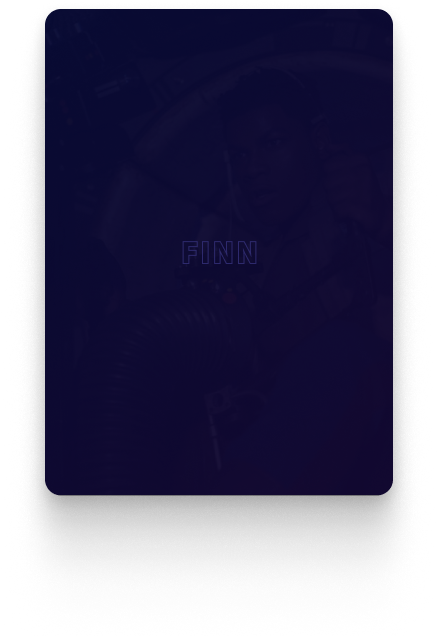
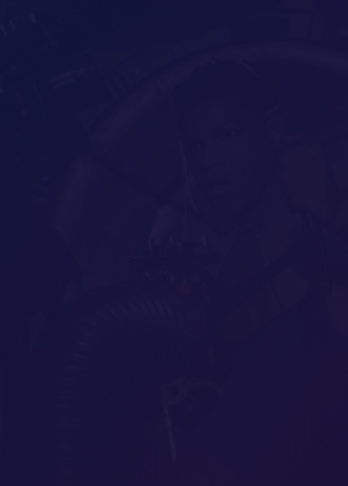
segunda versao

diff --git a/index.html b/index.html
@@ -1,0 +1,67 @@
+<!DOCTYPE html>
+<html lang="en">
+<head>
+    <meta charset="UTF-8">
+    <meta http-equiv="X-UA-Compatible" content="IE=edge">
+    <meta name="viewport" content="width=device-width, initial-scale=1.0">
+    <link rel="stylesheet" href="style.css">
+    <title>Card Skywalker</title>
+</head>
+<body>
+    <main class="container">
+        <div class="cards">
+            <div class="card-back">
+                <h1>FINN</h1>
+            </div>
+            <div class="card-front">
+                <div class="card-info">
+                <header> 
+                    <h2>Rey Skywalker</h2>
+                    <span>
+                        Era uma catadora de sucata 
+                        que descobriu ser sensível à Força durante sua busca ao lendário Mestre Jedi Luke 
+                        Skywalker.
+                    </span>
+                </header>
+                <div class="character">
+                    <img src="./assets/card-front/Character.svg" alt="imagem rey Skywalker">
+                </div>
+                <aside>
+                   
+                   
+                   <div class="infos">
+                        <span>Filmes</span>
+                        <h4>The Force Awakens, The Last Jedi, The Rise of Skywalker & Forces of Destiny</h4>
+                   </div>
+
+                   <div class="infos">
+                        <span>Espécie</span>
+                        <h4>Humana</h4>
+                   </div>
+
+                   <div class="infos">
+                         <span>Altura</span>
+                        <h4>1,7</h4>
+                   </div>
+
+                   <div class="infos">
+                        <span>Localidade</span>
+                         <h4>Jakku</h4>
+                        </div>
+
+                   <div class="infos">
+                      <span>Armas</span>
+                      <h4>Sabre de luz, Blaster, Quarterstaff</h4>
+                   </div>
+                </aside>
+            </div>
+            </div>
+            <div class="card-back">
+                <h1>BB-8 </h1>
+            </div>
+
+        </div>
+
+    </main>
+</body>
+</html>

diff --git a/style.css b/style.css
@@ -14,5 +14,65 @@
 }
  body{
     color: #fff;
+    background: linear-gradient(102.32deg, #030422 -2.74%, #090114 101.6%);
+    background-color: #111111;
     font-family: 'Source Sans Pro', sans-serif;
+    width: 100%;
+    height: 100vh;
+    display: flex;
+    justify-content: center;
+   align-items: center;
+   
+ }
+
+ .container {
+ }
+
+ .cards{
+    display: flex;
+    align-items: center;
+    gap: 32px;
+ }
+ 
+/*pseudo classe*/
+.card-back{
+    object-fit: cover;
+    width: 348px;
+    height: 486px;
+    box-shadow: 0px 113px 45px rgba(0, 0, 0, 0.02), 0px 64px 38px rgba(0, 0, 0, 0.08), 0px 28px 28px rgba(0, 0, 0, 0.13), 0px 7px 16px rgba(0, 0, 0, 0.15), 0px 0px 0px rgba(0, 0, 0, 0.15);
+   border-radius: 16px;
+
+   display: flex;
+   justify-content: center;
+   align-items: center;
+}
+
+
+ .card-back:first-child{
+    background-image: url("./assets/card-back/bg-card-left.png");
+    font-size: 32px;
+
+ }
+ .card-back:last-child{
+    background-image: url("./assets/card-back/bg-card-right.png");
+    font-size: 32px;
+ }
+ .card-back h1{
+
+    -webkit-text-stroke: 1px #312D74;
+    -webkit-text-fill-color: transparent;
+ }
+ 
+ .card-front{
+    object-fit: cover;
+    background-image: url(./assets/card-front/bg.png);
+    width: 436px;
+    height: 608px;
+    border-radius: 20px;
+    box-shadow: 0px 294px 118px rgba(0, 0, 0, 0.03), 0px 165px 99px rgba(0, 0, 0, 0.1), 0px 73px 73px rgba(0, 0, 0, 0.17), 0px 18px 40px rgba(0, 0, 0, 0.2), 0px 0px 0px rgba(0, 0, 0, 0.2);
+ }
+
+ .card-front header{
+    width: 263px;
+    
  }
